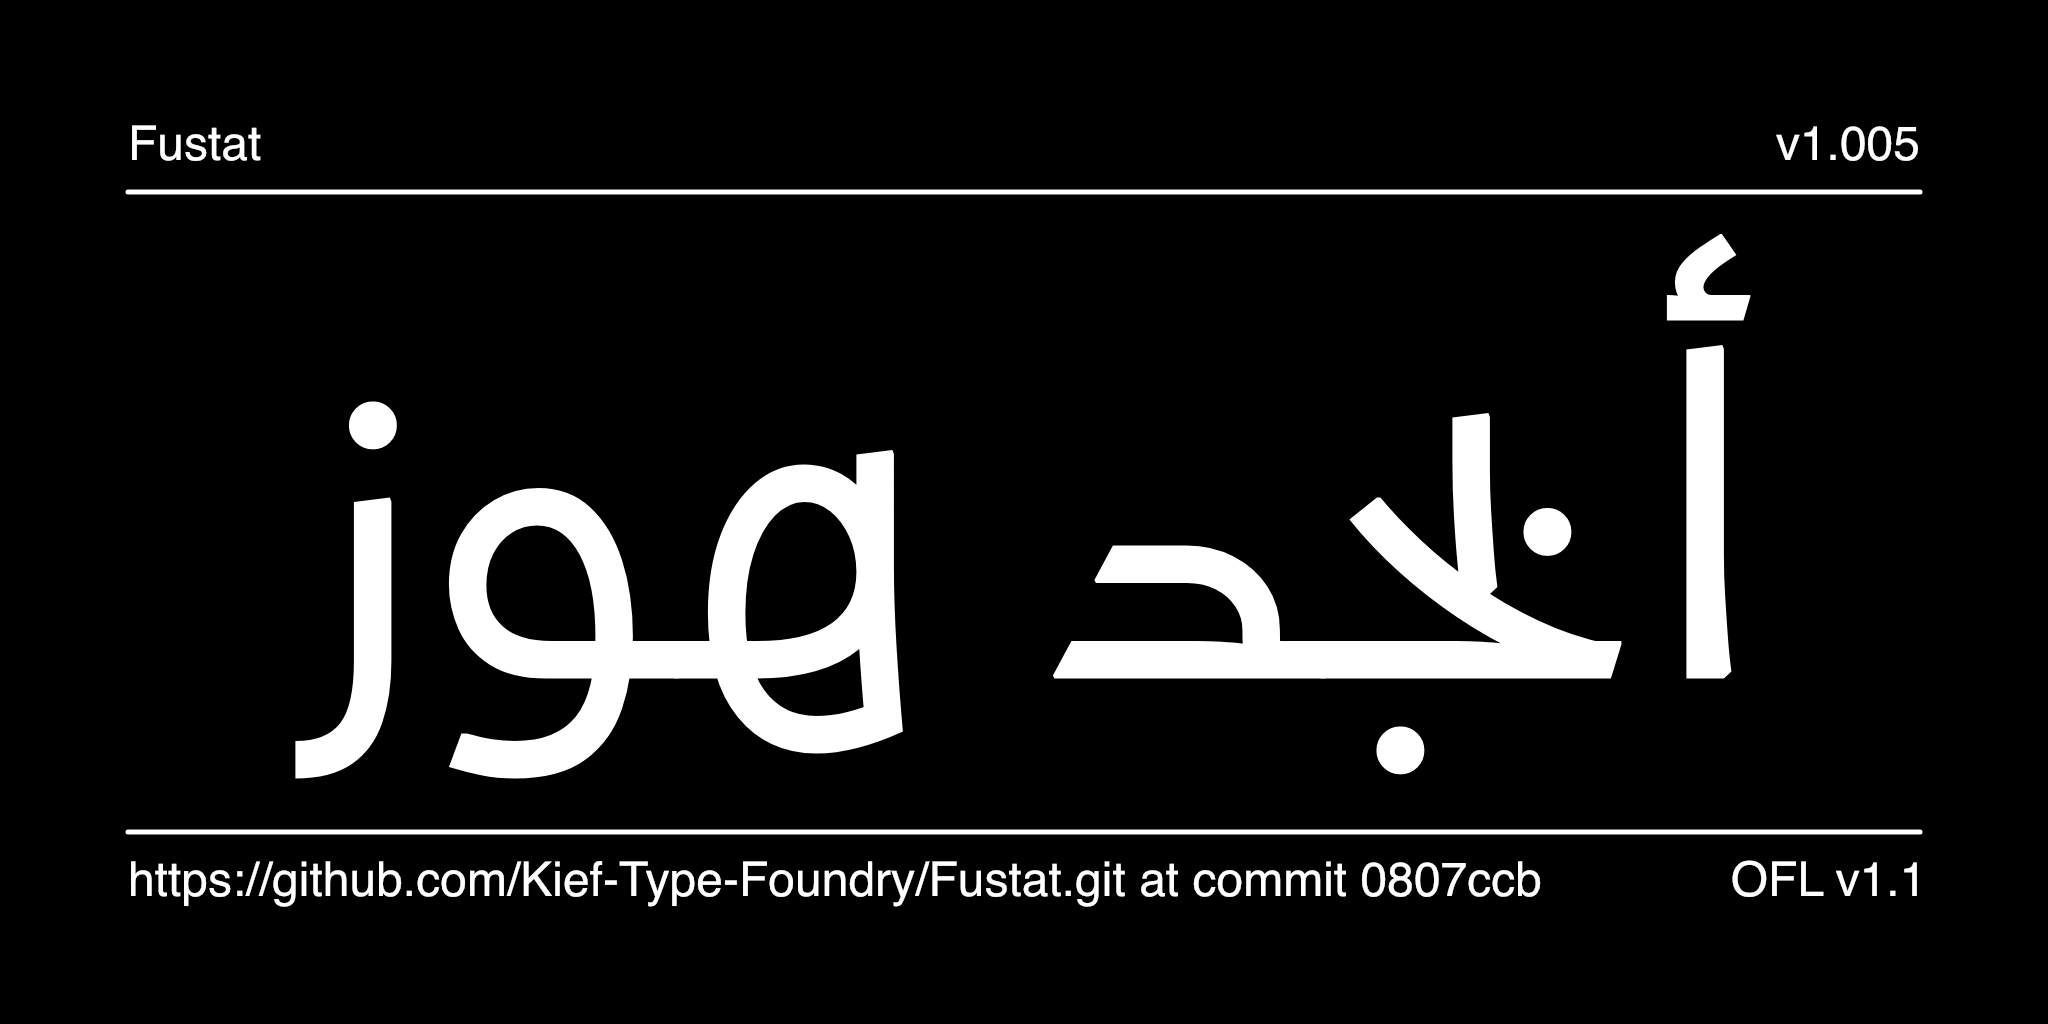
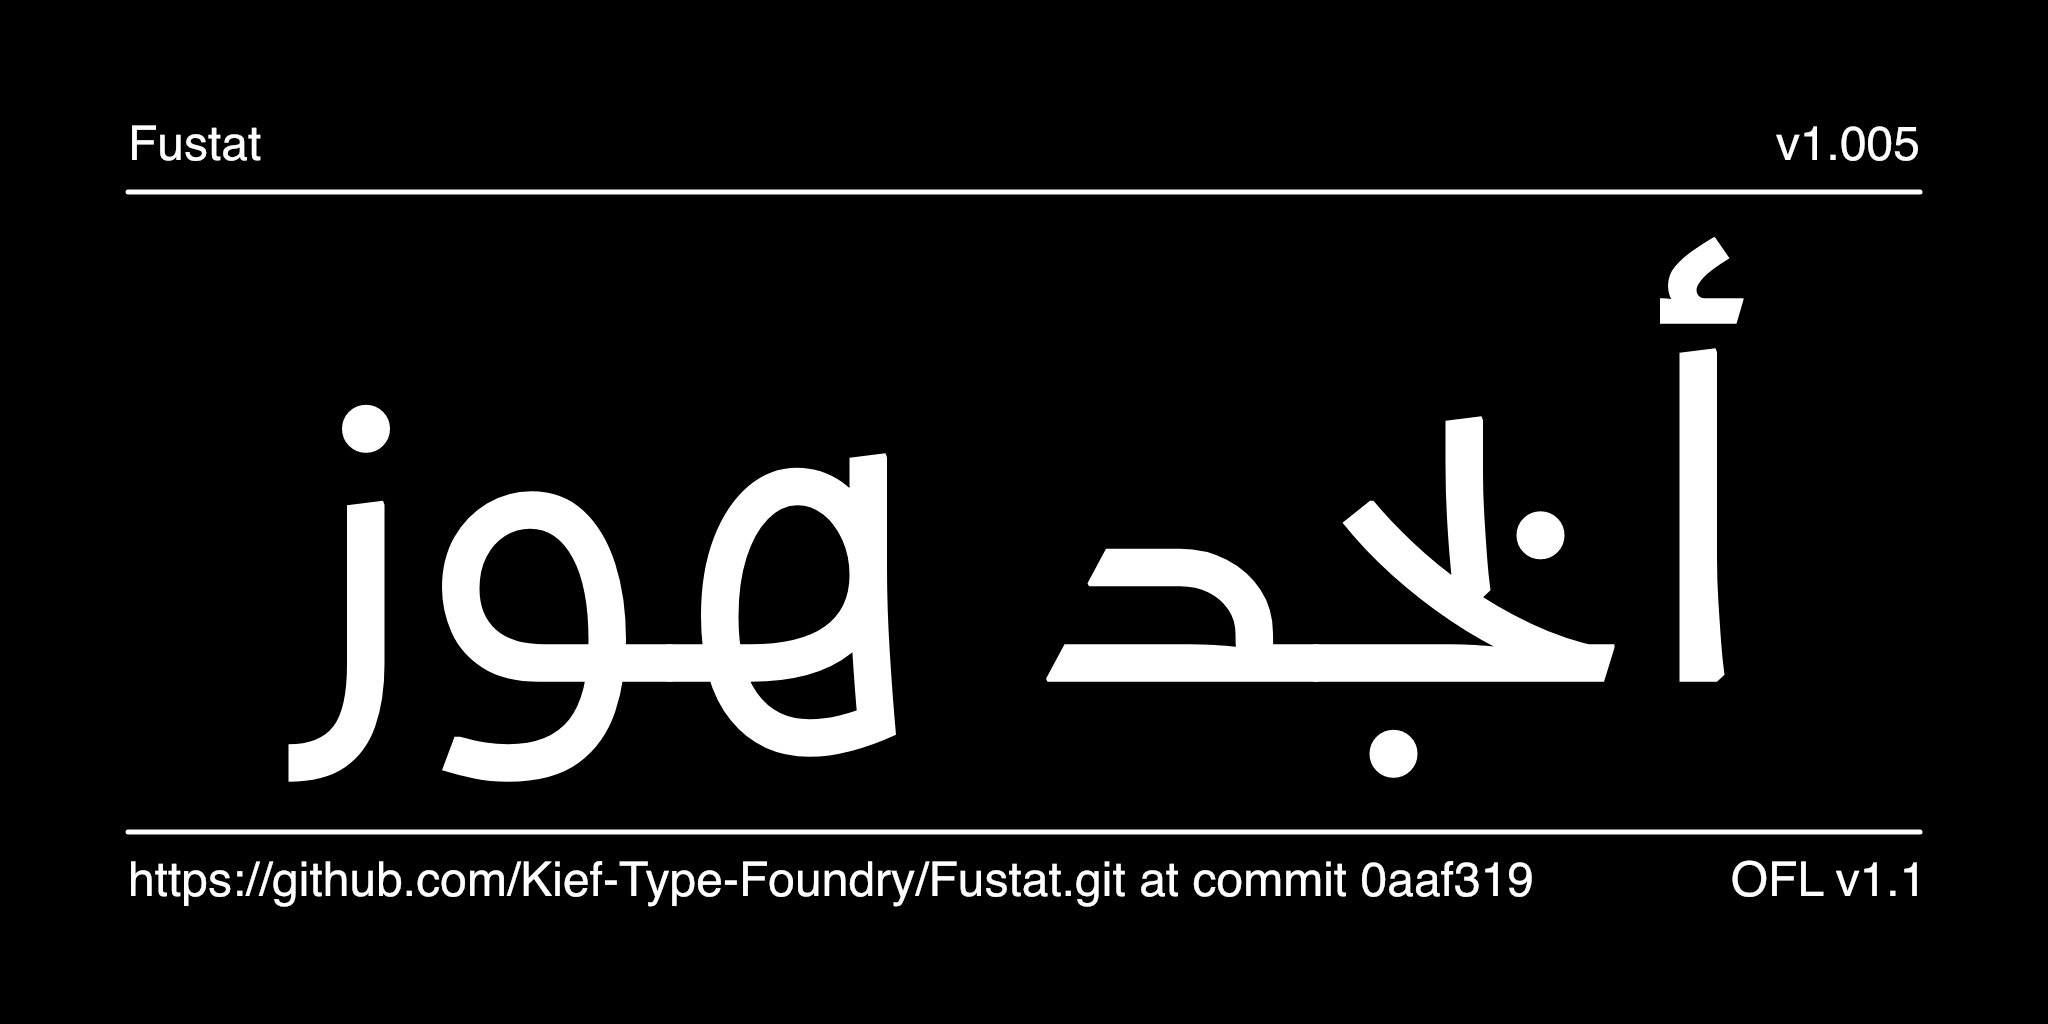
Improve image1.py script

diff --git a/documentation/image1.py b/documentation/image1.py
@@ -23,8 +23,6 @@ AUXILIARY_FONT_SIZE = 48
 
 BIG_TEXT = "أبجد هوز"
 BIG_TEXT_FONT_SIZE = 500
-BIG_TEXT_SIDE_MARGIN = MARGIN * 2.2
-BIG_TEXT_BOTTOM_MARGIN = MARGIN * 2.7
 
 GRID_VIEW = False  # Toggle this for a grid overlay
 
@@ -90,11 +88,9 @@ def draw_main_text():
     stroke(None)
     font(FONT_PATH)
     fontSize(BIG_TEXT_FONT_SIZE)
-    # Adjust this line to center main text manually.
-    # TODO: This should be done automatically when drawbot-skia
-    # has support for textBox() and FormattedString
-    # text(BIG_TEXT, ((WIDTH / 2) - MARGIN * 4.75, (HEIGHT / 2) - MARGIN * 2.5))
-    text(BIG_TEXT, (WIDTH - BIG_TEXT_SIDE_MARGIN, BIG_TEXT_BOTTOM_MARGIN))
+    _, h = textSize(BIG_TEXT)
+    y = HEIGHT - MARGIN - (h * 0.78)
+    text(BIG_TEXT, (WIDTH / 2, y), "center")
 
 
 # Divider lines
